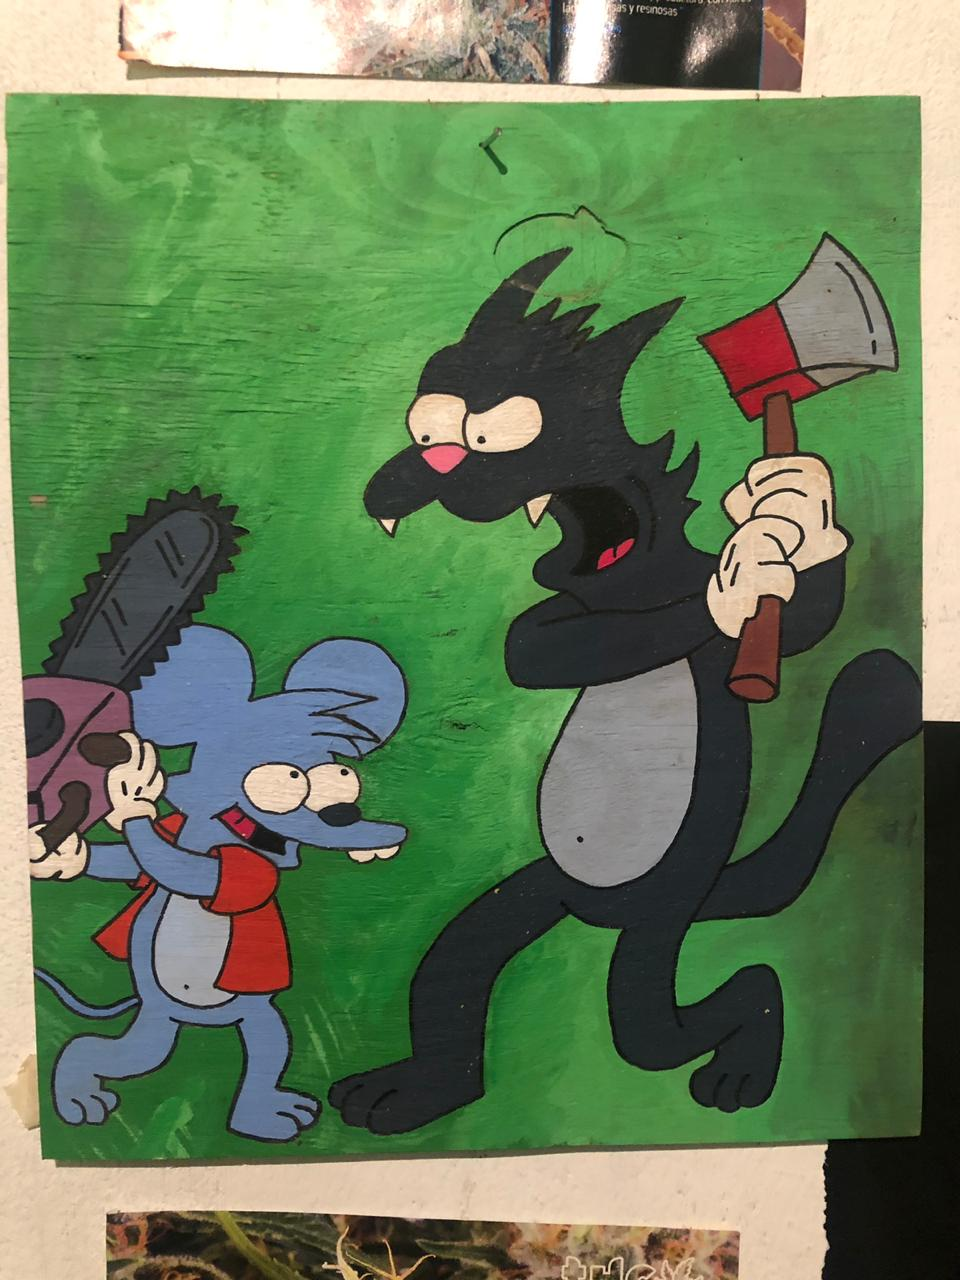
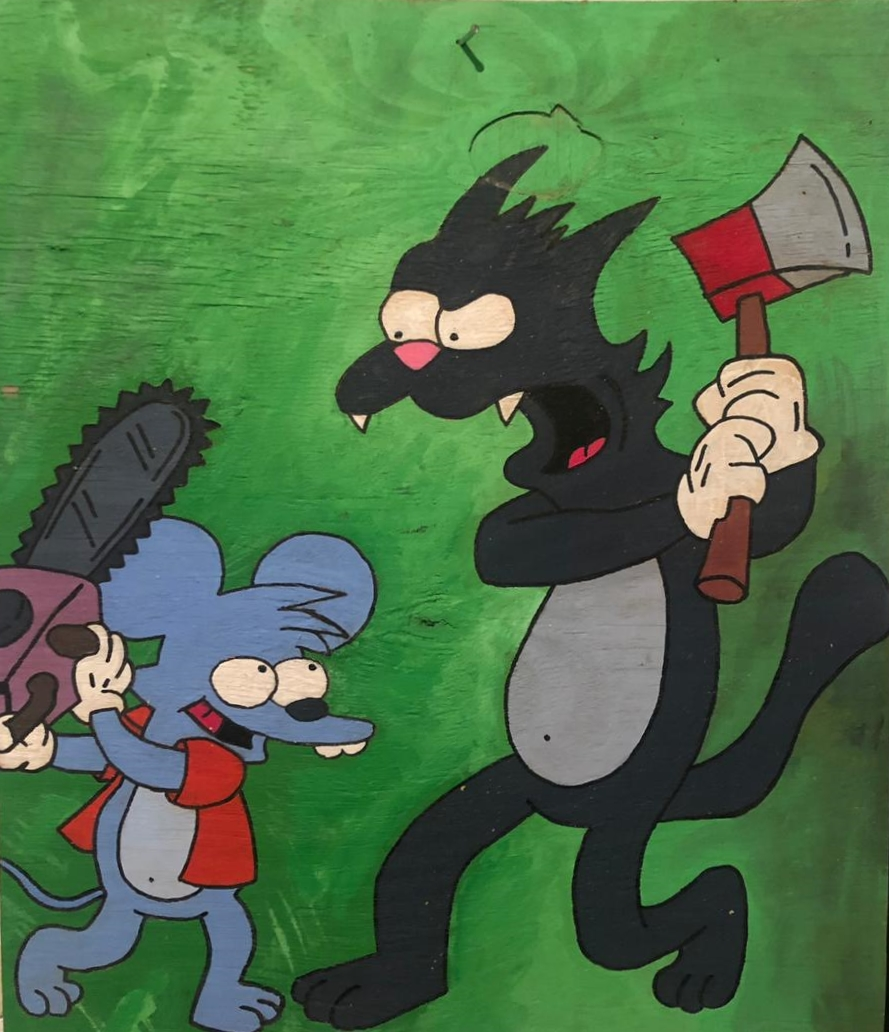
agrego cuadro 12 + pequeños arreglos

diff --git a/js/stockProductos.js b/js/stockProductos.js
@@ -1,49 +1,5 @@
-//CLASES
-class Producto {
-    constructor(id, nombre, tipo, descripcion, medidas, stock, precio, img) {
-      this.id = id;
-      this.nombre = nombre.toUpperCase();
-      this.tipo = tipo;
-      this.descripcion = descripcion;
-      this.medidas = medidas;
-      this.stock = stock;
-      this.precio = parseFloat(precio);
-      this.img = img;
-      this.vendido = false;
-    }
-  
-    sumarIva() {
-      this.precio = this.precio * 1.21;
-      console.log(
-        "El precio de " +
-          this.nombre +
-          " con IVA incluido es de: € " +
-          this.precio
-      );
-    }
-  
-    vender(cantidad) {
-      if (this.stock > cantidad) {
-        this.stock = this.stock - cantidad;
-        console.log("Quedan " + this.stock + " unidades");
-      } else {
-        console.log("No quedan mas unidades de " + this.nombre + " en stock");
-        this.vendido = true;
-      }
-    }
-  
-    mostrar() {
-      console.log("ID: " + this.id);
-      console.log("Nombre: " + this.nombre);
-      console.log("Tipo: " + this.tipo);
-      console.log("Descripcion: " + this.descripcion);
-      console.log("Medidas: " + this.medidas);
-      console.log("Stock: " + this.stock);
-      console.log("Precio: € " + this.precio);
-      console.log("vendido: " + this.vendido);
-    }
-  }
-  
+/*/////////////////////////////////////////// PRODUCTOS /////////////////////////////////////////*/ 
+
   const productos = [
     { 
       id: 1,
@@ -155,21 +111,63 @@ class Producto {
         precio: 10,
         img : "/img/cuadros/11.jpg",
       },
+      {
+        id: 12,
+        nombre: "tomy y daly",
+        tipo: "cuadro",
+        descripcion: "Cuadro realizado en madera con pintura acrilica.",
+        medidas: "medium",
+        stock: 1,
+        precio: 40,
+        img : "/img/cuadros/12.jpg",
+      },
   ];
   
-  function nuevoProducto() {
-    productos.push(
-      new Producto(
-        Number(prompt("Ingrese ID de nuevo producto: ")),
-        prompt("Ingrese nombre de nuevo producto: "),
-        prompt("Ingrese que tipo de producto es: "),
-        prompt("Ingrese descripcion del nuevo producto: "),
-        prompt("Ingrese medidas del nuevo producto: "),
-        Number(
-          prompt("Ingrese cantidad de Stock disponible de nuevo producto: ")
-        ),
-        prompt("ingrese precio del nuevo producto"),
-        (this.vendido = false)
-      )
+
+  /*/////////////////////////////////////////// CLASE /////////////////////////////////////////*/ 
+class Producto {
+  constructor(id, nombre, tipo, descripcion, medidas, stock, precio, img) {
+    this.id = id;
+    this.nombre = nombre.toUpperCase();
+    this.tipo = tipo;
+    this.descripcion = descripcion;
+    this.medidas = medidas;
+    this.stock = stock;
+    this.precio = parseFloat(precio);
+    this.img = img;
+    this.vendido = false;
+  }
+
+  sumarIva() {
+    this.precio = this.precio * 1.21;
+    console.log(
+      "El precio de " +
+        this.nombre +
+        " con IVA incluido es de: € " +
+        this.precio
     );
   }
+
+  vender(cantidad) {
+    if (this.stock > cantidad) {
+      this.stock = this.stock - cantidad;
+      console.log("Quedan " + this.stock + " unidades");
+    } else {
+      console.log("No quedan mas unidades de " + this.nombre + " en stock");
+      this.vendido = true;
+    }
+  }
+
+  mostrar() {
+    console.log("ID: " + this.id);
+    console.log("Nombre: " + this.nombre);
+    console.log("Tipo: " + this.tipo);
+    console.log("Descripcion: " + this.descripcion);
+    console.log("Medidas: " + this.medidas);
+    console.log("Stock: " + this.stock);
+    console.log("Precio: € " + this.precio);
+    console.log("vendido: " + this.vendido);
+  }
+}
+
+  

diff --git a/js/carrito.js b/js/carrito.js
@@ -105,6 +105,16 @@ function mostrarProductos(array) {
 
 }
 
+function alertProductoAgregadoCarrito() {
+  alertProductoAgregado.classList.remove('hide');
+  alertProductoAgregado.classList.add("textoAlertAgregado")
+  alertProductoAgregado.textContent = `Producto agregado! Tienes ${carritoArray.length} productos en el carrito.`
+  setTimeout(alert, 2000)
+
+  function alert(){
+    alertProductoAgregado.classList.add('hide')
+  }
+}
 
 //////////////////////////////////// AGREGAR AL CARRITO CLICK ///////////////////////////////////////
 
@@ -117,17 +127,9 @@ function agregarAlCarritoClick(e){
   const imgProducto = producto.querySelector(".producto__imagen").src;
   const descripcionProducto = producto.querySelector(".producto__descripcion").textContent;
   
-  alertProductoAgregado.classList.remove('hide');
-  alertProductoAgregado.classList.add("textoAlertAgregado")
-  alertProductoAgregado.textContent = `Producto agregado! Tienes ${carritoArray.length +1} productos en el carrito.`
-  setTimeout(alert, 2000)
-
-  function alert(){
-    alertProductoAgregado.classList.add('hide')
-  }
-  
 
   agregarAlCarrito (tituloProducto, precioProducto, imgProducto, descripcionProducto)
+  alertProductoAgregadoCarrito()
 }
 
 
@@ -206,7 +208,6 @@ function agregarAlCarrito (tituloProducto, precioProducto, imgProducto, descripc
     actualizarCarrito();
 
     localStorage.setItem("carrito", JSON.stringify(carritoArray));
-
   });
 
   carritoFlotante.querySelector(".cantidadItemCarrito").addEventListener("change", (e)=> {
@@ -224,6 +225,7 @@ function agregarAlCarrito (tituloProducto, precioProducto, imgProducto, descripc
     actualizarCarrito();
   });
 
+  
   actualizarCarrito()
 
   localStorage.setItem("carrito", JSON.stringify(carritoArray))
@@ -249,9 +251,6 @@ function actualizarCarrito() {
     
     cantidadTotal =  cantidadTotal + cantidadItemCarrito;
     total = total + precioItemCarrito * cantidadItemCarrito;
-    if (total == 0){
-      carrito.innerHTML = ""
-    }
   });
 
   contadorCarrito.innerText = cantidadTotal;
@@ -297,17 +296,4 @@ botonVaciarCarrito.addEventListener("click", () => {
   }
 
   recuperar()
-
-
-
-
-/*
-
-  errores que encuentro:
-
-  - Al subir o bajar cantidad de itemes en el carrito, no se agregan a carritoArray ni se guarda en 
-    localStorage 
-
-
-  */
 

diff --git a/tienda/tienda.html b/tienda/tienda.html
@@ -157,7 +157,7 @@
     </header>
 
     <main>
-      <!--ALERT DE COMPRA REALIZADA-->
+      <!--ALERT DE PRODUCTO AGREGADO AL CARRITO-->
       <div class="alert alert-warning m-0 hide sticky-top p-4 text-center" role="alert">
         <span></span>
       </div>
@@ -243,6 +243,7 @@
 
         </div>
 
+        <!--CONTENEDOR PRODUCTOS-->
         <div class="text-light m-0">
           <div id="contenedorProducto" class="gridTienda col-9 mx-auto">
             <!--
@@ -292,6 +293,7 @@
       </div>
     </main>
 
+    <!--FOOTER-->
     <footer class="pt-0">
       <div class="prefooter container-fluid text-light">
         <div class="logo2">

diff --git a/scss/_tienda.scss b/scss/_tienda.scss
@@ -82,7 +82,7 @@ optgroup {
 
 .gridTienda {
     display: grid;
-    grid-template-columns: repeat(4, 1fr);
+    grid-template-columns: repeat(3, 1fr);
     gap: 2rem;
     padding: 1rem ;
 
@@ -95,8 +95,8 @@ optgroup {
     margin: auto;
     background-color: rgb(255, 255, 255);
     padding: .5rem;
-    width: 100%;
-    min-height: 650px;
+    width: 85%;
+    min-height: 500px;
     box-shadow: rgba(0, 0, 0, 0.589) 2px 2px 5px;
     transition: all ease-out 0.2s;
     border-radius: 1rem;

diff --git a/css/main.css b/css/main.css
@@ -59,7 +59,7 @@ optgroup {
 /*PRODUCTO*/
 .gridTienda {
   display: grid;
-  grid-template-columns: repeat(4, 1fr);
+  grid-template-columns: repeat(3, 1fr);
   gap: 2rem;
   padding: 1rem; }
   .gridTienda a {
@@ -69,8 +69,8 @@ optgroup {
   margin: auto;
   background-color: white;
   padding: .5rem;
-  width: 100%;
-  min-height: 650px;
+  width: 85%;
+  min-height: 500px;
   box-shadow: rgba(0, 0, 0, 0.589) 2px 2px 5px;
   transition: all ease-out 0.2s;
   border-radius: 1rem; }
